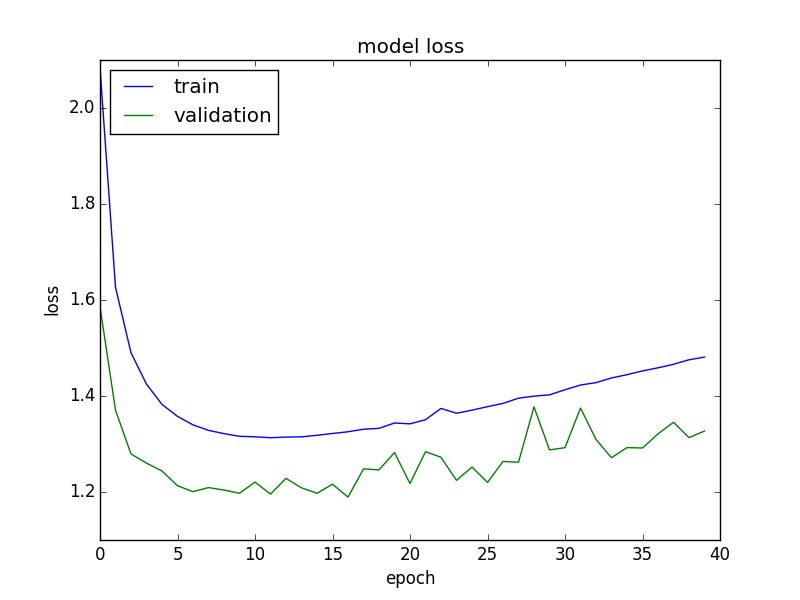
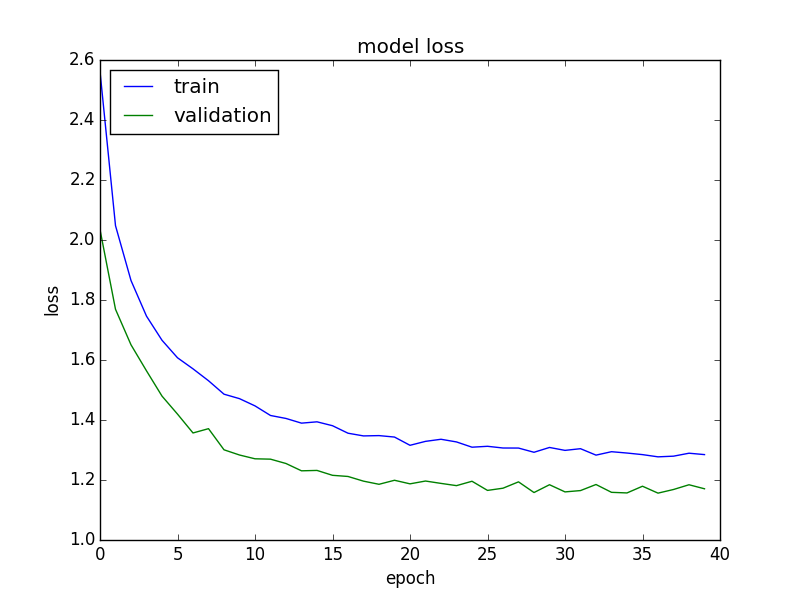
Experimento con 25% de dataset de train y 5 capas convolucionales

diff --git a/ex3b_convnet_5conv/ex3b_convnet_5conv.py b/ex3b_convnet_5conv/ex3b_convnet_5conv.py
@@ -68,7 +68,7 @@ tst_dataset = img_generator.flow_from_directory(
     batch_size=batch_size
 )
 
-trainSamples = int(trn_dataset.N)
+trainSamples = int(trn_dataset.N * .25)
 trainSamples -= trainSamples % batch_size  # tiene que se multiplo de batch_size
                                            # https://github.com/fchollet/keras/issues/3256
 validationSamples = int(val_dataset.N)
